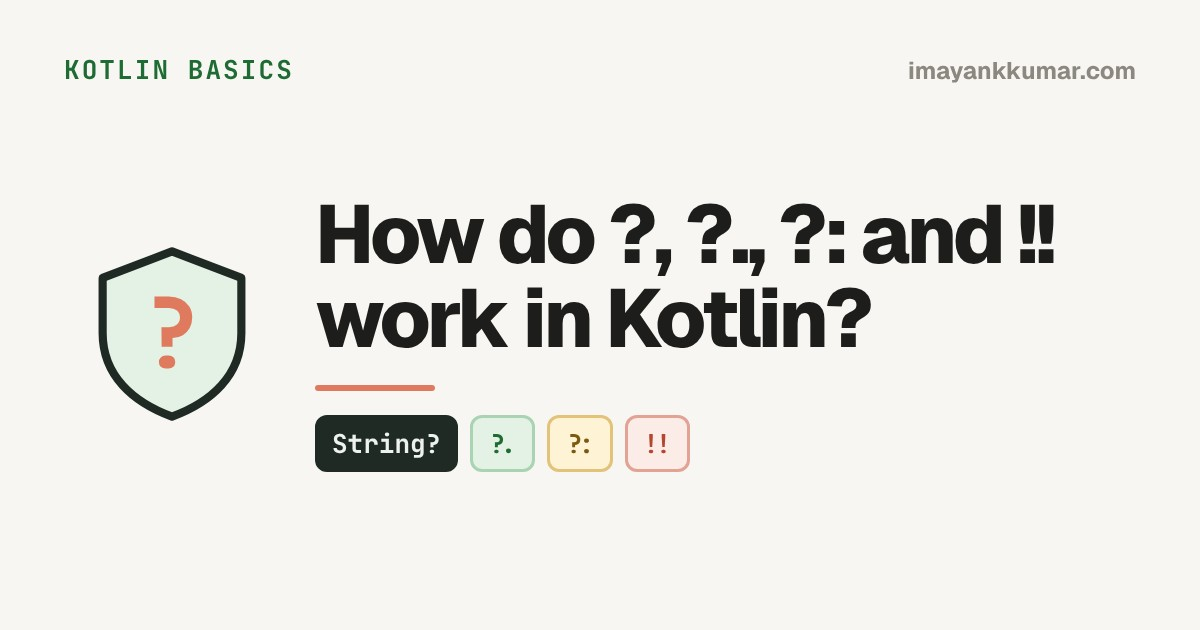
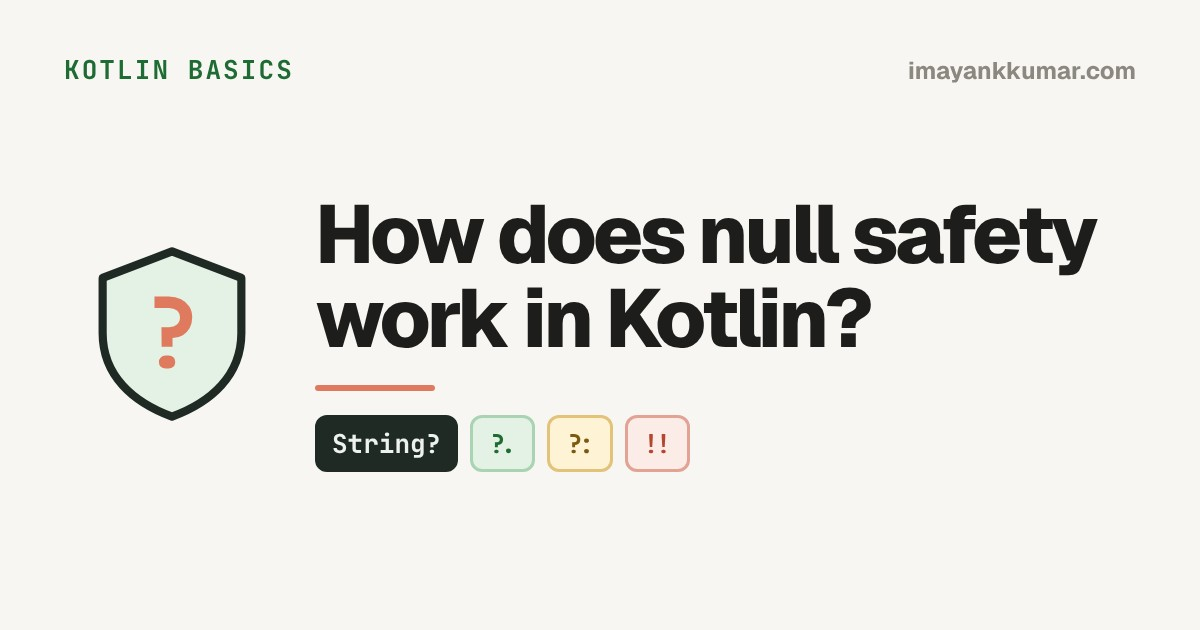
Refresh older posts: question titles, shorter sentences, internal links (#51)
* Publish posts on their pubDate with a daily scheduled deploy

* Add post: When should you use a sealed class in Kotlin?

* Sealed class post: shorter sentences, open vs sealed contrast

* Show interview ladder pages only once their roadmap post is live

* Add sealed class interview ladder and link it from the post

* Roadmap: rename sealed topic to Sealed class vs sealed interface

* Kotlin basics posts: question titles, shorter sentences, next-topic links; null safety cover matches title

* Roadmap and AI posts: shorter sentences and links to the Kotlin posts

Changed region(s): [[0.4933, 0.3016, 0.925, 0.4524]]

diff --git a/src/content/blog/android-developer-roadmap-2027.md b/src/content/blog/android-developer-roadmap-2027.md
@@ -21,13 +21,13 @@ If you are an Android developer right now, you are probably asking three questio
 2. **Does any of it still matter, now that AI writes code?**
 3. **What will interviews actually ask me?**
 
-The last year did not make this easier. In May 2026, Google said [Android UI is now Compose-first](https://android-developers.googleblog.com/2026/05/android-ui-development-is-compose-first.html) and moved the View components that Compose replaces into maintenance mode: critical bug fixes only, no new features, but no plan to remove them. The same day, [Android CLI 1.0](https://android-developers.googleblog.com/2026/05/android-cli-stable-1-0-agent-development.html) went stable so AI agents can build and run Android apps. And Google was reported to be [piloting coding interviews where candidates use Gemini](https://careers.northeastern.edu/blog/2026/05/13/googles-ai-assisted-coding-interview-2026-guide/).
+The last year did not make this easier. In May 2026, Google said [Android UI is now Compose-first](https://android-developers.googleblog.com/2026/05/android-ui-development-is-compose-first.html) It also moved the View components that Compose replaces into maintenance mode. That means critical bug fixes only and no new features, but no plan to remove them. The same day, [Android CLI 1.0](https://android-developers.googleblog.com/2026/05/android-cli-stable-1-0-agent-development.html) went stable so AI agents can build and run Android apps. And Google was reported to be [piloting coding interviews where candidates use Gemini](https://careers.northeastern.edu/blog/2026/05/13/googles-ai-assisted-coding-interview-2026-guide/).
 
-This post answers all three questions. It is a complete roadmap for 2027: what to learn, in what order, how deep to go, what interviewers ask at each stage, and where AI fits.
+This post answers all three questions. It is a complete roadmap for 2027. It covers what to learn, in what order, and how deep to go. It also covers what interviewers ask at each stage, and where AI fits.
 
 **Short answer:** Learn Kotlin and the Android platform first, then coroutines, Compose and architecture, then data, testing, production and system design. Use AI at every stage, but only as fast as you can check what it gives you. Interviews test the same things, plus coding problems and design.
 
-I built this from the official [Android Developers](https://developer.android.com/) and [Kotlin](https://kotlinlang.org/docs/) documentation, recent interview write-ups that developers posted publicly, and what I have seen in production Android work. It is my own roadmap, not one published by Google or JetBrains.
+I built this from the official [Android Developers](https://developer.android.com/) and [Kotlin](https://kotlinlang.org/docs/) documentation. I also used recent interview write-ups that developers posted publicly, and what I have seen in production Android work. It is my own roadmap, not one published by Google or JetBrains.
 
 **Contents**
 
@@ -63,7 +63,7 @@ Before the topic lists, five rules. They matter more than any single library.
 1. **Fundamentals before tools.** Libraries change every year. Lifecycle, state, threading and data flow have not changed much in a decade. Learn the things that will still be true in 2030.
 2. **One project, not ten tutorials.** Build one app and improve it at every stage. You learn more from fixing your own design than from finishing someone else's.
 3. **Use AI, but check it.** Let AI write, explain and suggest. Then prove it right with a test, a profiler or the docs. If you can't check it, you are not ready to ship it.
-4. **Go deep in one area.** Be solid across all nine stages, then pick one to become known for: performance, architecture, testing, AI features or Kotlin Multiplatform (KMP). Depth is what makes a senior engineer.
+4. **Go deep in one area.** Be solid across all nine stages. Then pick one to become known for: performance, architecture, testing, AI features or Kotlin Multiplatform (KMP). Depth is what makes a senior engineer.
 5. **Show your work.** A GitHub repo, a short write-up or a talk proves more than a certificate. It also gives you real stories for interviews.
 
 ## The roadmap at a glance
@@ -97,7 +97,7 @@ If you already work as an Android developer, do not start at stage 1 by default.
 
 ## The nine stages
 
-Every stage has the same parts: why it matters, what you must know, what to learn when you want to go deeper, where to start, the interview questions it prepares you for, and one exercise to test yourself.
+Every stage has the same parts. You get why it matters, what you must know, and what to learn when you want to go deeper. Then where to start, the interview questions it prepares you for, and one exercise to test yourself.
 
 ### Stage 1: Kotlin and DSA basics
 
@@ -128,6 +128,8 @@ Kotlin is the language of Android. Knowing the syntax is easy. Knowing what the 
 
 **Where to start:** the [Kotlin docs](https://kotlinlang.org/docs/), then [what's new in Kotlin 2.4](https://kotlinlang.org/docs/whatsnew24.html) to see where the language is going.
 
+**My posts for this stage so far:** [null safety](/blog/kotlin-null-safety/), [Any, Unit and Nothing](/blog/kotlin-any-unit-nothing/), [data classes](/blog/kotlin-data-class/) and [sealed classes](/blog/kotlin-sealed-class/). The [roadmap page](/roadmap/) lists every topic as it comes out.
+
 **Interview questions**
 
 - `lateinit` vs `by lazy`: when would you use each?
@@ -136,11 +138,11 @@ Kotlin is the language of Android. Knowing the syntax is easy. Knowing what the 
 - (Senior) What does `inline` change at the call site, and why does `reified` need it?
 - (Senior) How does `by lazy` handle threads by default, and when would you change that?
 
-**Try this:** Write a sealed `UiState` with four states and a `when` that handles them. Add a fifth state. Notice what the compiler does, and explain why that is the point of sealed types.
+**Try this:** Write a sealed `UiState` with four states and a `when` that handles them. Add a fifth state. Notice what the compiler does, and explain why that is the point of sealed types. ([The sealed class post](/blog/kotlin-sealed-class/) walks through it.)
 
 ### Stage 2: The Android platform
 
-This is the stage people skip, and it is where many production bugs live. The platform also keeps changing under you. Apps that target Android 16 [can no longer opt out of edge-to-edge](https://developer.android.com/about/versions/16/behavior-changes-16), get predictive back by default, and have orientation and resize limits ignored on large screens. Apps that target Android 17 [lose the large-screen opt-out](https://developer.android.com/about/versions/17/behavior-changes-17) and need a new permission for local network access.
+This is the stage people skip, and it is where many production bugs live. The platform also keeps changing under you. Apps that target Android 16 [can no longer opt out of edge-to-edge](https://developer.android.com/about/versions/16/behavior-changes-16), and get predictive back by default. On large screens, their orientation and resize limits are ignored. Apps that target Android 17 [lose the large-screen opt-out](https://developer.android.com/about/versions/17/behavior-changes-17) and need a new permission for local network access.
 
 **Must know**
 
@@ -581,7 +583,7 @@ What is asked depends on the company and the level. Do not count how many questi
 
 A roadmap that makes everything look equally important does not help anyone. These are worth learning when your product, team or next role needs them.
 
-- **Kotlin Multiplatform and Compose Multiplatform.** JetBrains made [Compose Multiplatform for iOS stable](https://blog.jetbrains.com/kotlin/2025/05/compose-multiplatform-1-8-0-released) in May 2025, and KMP is a main focus on the [Kotlin roadmap](https://kotlinlang.org/docs/roadmap.html). It is a strong skill, but it builds on stages 1 to 7. Learn it after them, or when your team shares code.
+- **Kotlin Multiplatform and Compose Multiplatform.** JetBrains made [Compose Multiplatform for iOS stable](https://blog.jetbrains.com/kotlin/2025/05/compose-multiplatform-1-8-0-released) in May 2025. KMP is also a main focus on the [Kotlin roadmap](https://kotlinlang.org/docs/roadmap.html). It is a strong skill, but it builds on stages 1 to 7. Learn it after them, or when your team shares code.
 - **XML Views, Fragments and RxJava.** Many production apps still use them, and interviews still ask about Fragment lifecycles. Learn enough to maintain and migrate them. For new code, Compose, coroutines and Flow come first.
 - **Specialized APIs.** Bluetooth, camera, media, location, health, Wear OS, TV, Auto and XR. Learn them deeply when a product needs them. Everyone should still know the privacy and permission basics.
 
@@ -591,7 +593,7 @@ The rule is simple: fundamentals first, then go deep where the product takes you
 
 - **New to Android (0 to 1 year).** Start at stage 1 and go in order. Google's [Android Basics with Compose](https://developer.android.com/courses/android-basics-compose/course) course covers the first stages well. Start coding problems early. Do not jump to AI features or KMP yet.
 - **Working Android developer (1 to 4 years).** Test yourself with the "done when" column. Stages 2, 3 and 7 are the easiest to skip while still shipping features: process death, cancellation and tests that catch real bugs. Check those first, then add system design.
-- **Senior (5+ years).** Stages 8 and 9 are your job now. Add both AI tracks, and make sure you can still answer the stage 2 and 3 interview questions without notes, because you are the one reviewing everyone's AI-written code.
+- **Senior (5+ years).** Stages 8 and 9 are your job now. Add both AI tracks. Make sure you can still answer the stage 2 and 3 interview questions without notes, because you are the one reviewing everyone's AI-written code.
 
 ## Should you build many small apps or one real project?
 

diff --git a/src/content/blog/kotlin-data-class.md b/src/content/blog/kotlin-data-class.md
@@ -1,6 +1,5 @@
 ---
-title: "Kotlin Data Class vs Regular Class Explained Simply"
-seoTitle: "Kotlin Data Class vs Class: equals, copy, componentN and Bytecode"
+title: "When Should a Kotlin Class Be a Data Class?"
 description: "What the data keyword really adds to a Kotlin class, the rules it comes with, why copy() is shallow, and what the compiler writes for you in bytecode."
 pubDate: 2026-11-14
 tags: ["kotlin", "android", "data-class", "basics"]
@@ -14,7 +13,7 @@ roadmap:
   topic: data-classes
 ---
 
-> **In short:** a data class is a normal class where the compiler writes five things for you: `equals()`, `hashCode()`, `toString()`, `copy()` and `component1()`, `component2()` and so on. It uses only the properties in the primary constructor, and `copy()` copies values, not the objects inside them.
+> **In short:** a data class is a normal class where the compiler writes five things for you. They are `equals()`, `hashCode()`, `toString()`, `copy()` and `component1()`, `component2()` and so on. It uses only the properties in the primary constructor, and `copy()` copies values, not the objects inside them.
 
 You add an item to the cart, the ViewModel updates its `StateFlow`, and the screen does not change. No crash, nothing in Logcat. The state is a data class and the update uses `copy()`. The bug is in how `copy()` and `equals()` work together.
 
@@ -70,7 +69,7 @@ A regular class gets `equals()` from [`Any`](/blog/kotlin-any-unit-nothing/), wh
 3. A data class can't be `abstract`, `open`, `sealed` or `inner`.
 4. You can't write your own `copy()` or `componentN()` with the same parameters the compiler would generate. You can write your own `equals()`, `hashCode()` or `toString()`, and then the compiler uses yours.
 
-Rule 3 means nobody can extend a data class. It can still implement interfaces, which is why `data class Ready(...) : UiState` is so common in Android code. Break a rule and you get a compile error, like "Modifier 'open' is incompatible with 'data'".
+Rule 3 means nobody can extend a data class. It can still implement interfaces, which is why `data class Ready(...) : UiState` is so common in Android code. The [sealed class post](/blog/kotlin-sealed-class/) shows how that `UiState` is built. Break a rule and you get a compile error, like "Modifier 'open' is incompatible with 'data'".
 
 ## Which properties count in equals()?
 
@@ -150,7 +149,7 @@ public final class CartItem {
 }
 ```
 
-The class is `final`: that is rule 3 in bytecode. `copy$default` handles default arguments: an `int` mask marks which ones you passed, and the rest come from the old object. And `hashCode()` is the classic `result * 31 + next` over the three fields, the same code you would write by hand in Java. To see it yourself in Android Studio: *Tools > Kotlin > Show Kotlin Bytecode*, then *Decompile*.
+The class is `final`: that is rule 3 in bytecode. `copy$default` handles default arguments: an `int` mask marks which ones you passed, and the rest come from the old object. And `hashCode()` is the classic `result * 31 + next` over the three fields. It is the same code you would write by hand in Java. To see it yourself in Android Studio: *Tools > Kotlin > Show Kotlin Bytecode*, then *Decompile*.
 
 ## Data class vs regular class: quick comparison
 
@@ -180,6 +179,6 @@ The `data` keyword is a shortcut, not a different kind of class. It writes five 
 
 The practical habit: build state classes from `val`s and read-only types like `List`, and make changes with `copy()`.
 
-If you want to test yourself, try the [data class interview questions](/interview/kotlin-data-class/). This post is the third topic in Stage 1 of my [Android roadmap](/roadmap/).
+If you want to test yourself, try the [data class interview questions](/interview/kotlin-data-class/). This post is the third topic in Stage 1 of my [Android roadmap](/roadmap/). Next: [When should you use a sealed class in Kotlin?](/blog/kotlin-sealed-class/)
 
 Have you ever had a `StateFlow` that didn't update even though the code called `copy()`?

diff --git a/src/content/blog/ai-can-write-my-kotlin.md b/src/content/blog/ai-can-write-my-kotlin.md
@@ -16,13 +16,13 @@ coverAlt: "Title card: AI can write my Kotlin. Who debugs it at 2 AM? Tags: test
 
 It's 2:07 AM, and Crashlytics has opinions. The crash is in a ViewModel that `git blame` says you wrote. You didn't. An agent did, and its pull request said "all tests pass." They do. The agent updated the expected values to match its new behaviour.
 
-That's a composite, not a confession. But it points at a real shift in Android work. This post covers what AI tools can do on Android today, why "the tests pass" is not the same as "it works" on a phone, and what to get better at.
+That's a composite, not a confession. But it points at a real shift in Android work. This post covers what AI tools can do on Android today. It also covers why "the tests pass" is not the same as "it works" on a phone, and what to get better at.
 
 Short answer: AI can now write and fix Android code, but proving it works on a real device is still your job.
 
 ## What can AI tools do on Android today?
 
-Quite a lot. Android Studio's [May 2026 release](https://android-developers.googleblog.com/2026/05/whats-new-android-developer-tools.html) includes an agent that plans multi-step work and fixes its own build errors, "Fix with AI" for crashes in App Quality Insights, and an option to hand LeakCanary traces to an agent. Google also runs [Android Bench](https://android-developers.googleblog.com/2026/03/elevating-ai-assisted-androi.html), which gives models real issues from public Android repos and checks each fix with tests. At its March 2026 launch, models solved between 16% and 72% of tasks.
+Quite a lot. Android Studio's [May 2026 release](https://android-developers.googleblog.com/2026/05/whats-new-android-developer-tools.html) includes an agent that plans multi-step work and fixes its own build errors. It also adds "Fix with AI" for crashes in App Quality Insights, and an option to hand LeakCanary traces to an agent. Google also runs [Android Bench](https://android-developers.googleblog.com/2026/03/elevating-ai-assisted-androi.html), which gives models real issues from public Android repos and checks each fix with tests. At its March 2026 launch, models solved between 16% and 72% of tasks.
 
 So writing Android code is no longer the slow part. Checking it is.
 
@@ -66,7 +66,7 @@ Android Bench counts a task as solved when the tests pass. That's fair for a ben
 
 ## Doesn't AI debug too?
 
-It does, and it's improving. At 2 AM, an agent can give you three possible explanations for a crash in seconds. The hard part is picking the true one: what the evidence supports, and whether the fix treats the cause or just hides it behind a `?.let`. That takes a mental model of the system.
+It does, and it's improving. At 2 AM, an agent can give you three possible explanations for a crash in seconds. The hard part is picking the true one. What does the evidence support? Does the fix treat the cause, or just hide it behind a `?.let`? That takes a mental model of the system.
 
 Two things are less certain. Simple apps may end up mostly built by agents, so deep Android skill will matter most where failure is expensive. And if junior engineers stop writing the boring code, it's not clear how they'll build that mental model. I don't have an answer to that yet.
 
@@ -99,5 +99,7 @@ And write some code by hand on purpose, in the parts you want to understand deep
 ## So, who debugs at 2 AM?
 
 You and an agent, together. The agent will produce explanations faster. Your job is knowing which one is true and owning the release.
+
+If you want a full learning path for these skills, start with my [Android Developer Roadmap 2027](/blog/android-developer-roadmap-2027/).
 
 What's the most convincing "almost right" code an AI tool has given you on Android?

diff --git a/src/content/blog/kotlin-any-unit-nothing.md b/src/content/blog/kotlin-any-unit-nothing.md
@@ -1,5 +1,5 @@
 ---
-title: "Kotlin Any, Unit and Nothing Explained Simply"
+title: "What Do Any, Unit and Nothing Mean in Kotlin?"
 description: "What Any, Unit and Nothing mean in Kotlin, how they differ from Java's Object and void, and why Android code is full of () -> Unit and UiState<Nothing>."
 pubDate: 2026-11-09
 tags: ["kotlin", "android", "type-system", "basics"]
@@ -25,7 +25,7 @@ Think of Kotlin's types as a ladder.
 
 - At the top is `Any?`. Every value fits here, even `null`.
 - Just below is `Any`. Every value except `null` fits here.
-- In the middle are the types you use every day: built-in ones like `String` and `Int`, your own classes like `Order` (from the food-order app in this series), and also `Unit`.
+- In the middle are the types you use every day. That means built-in ones like `String` and `Int`, your own classes like `Order` (from the food-order app in this series), and also `Unit`.
 - At the bottom is `Nothing`. No value fits here at all.
 
 A type high on the ladder accepts more values but tells you less about them. A type low on the ladder tells you more. `Nothing` is the extreme case: it tells the compiler "you will never get a value from here".
@@ -54,7 +54,7 @@ Here each value is `Any?`, because the note can be missing. To use a value as it
 
 On the JVM, Kotlin [maps Java's `Object` to `Any`](https://kotlinlang.org/docs/java-interop.html#mapped-types). They are not exactly the same, though. `Any` only has those three functions, so `wait()` and `notify()` are not available on it.
 
-`Any` is useful at the edges of your app: logging, analytics, a `Bundle`. Inside your own code, it throws away type information. If a function takes `Any` and then checks five types with `is`, a sealed type or a generic is usually a better fit.
+`Any` is useful at the edges of your app: logging, analytics, a `Bundle`. Inside your own code, it throws away type information. If a function takes `Any` and then checks five types with `is`, a [sealed type](/blog/kotlin-sealed-class/) or a generic is usually a better fit.
 
 ## What is Unit, and how is it different from void?
 
@@ -156,10 +156,10 @@ A `Unit` function finishes and comes back, just without a useful result. A `Noth
 
 ## What should you remember?
 
-`Any` is the top of the ladder: it accepts everything and tells you little. `Unit` is a real value that means "done". `Nothing` is the bottom: it tells the compiler a path never comes back, and the compiler uses that to make your other types more exact.
+`Any` is the top of the ladder: it accepts everything and tells you little. `Unit` is a real value that means "done". `Nothing` is the bottom: it tells the compiler a path never comes back. The compiler uses that to make your other types more exact.
 
 The practical habit: when you write a helper that always throws, give it `: Nothing`. Your smart casts will start working, and a few `!!` will go away.
 
-If you want to test yourself, try the [Any, Unit and Nothing interview questions](/interview/kotlin-any-unit-nothing/). This post is the second topic in Stage 1 of my [Android roadmap](/roadmap/).
+If you want to test yourself, try the [Any, Unit and Nothing interview questions](/interview/kotlin-any-unit-nothing/). This post is the second topic in Stage 1 of my [Android roadmap](/roadmap/). Next: [When should a Kotlin class be a data class?](/blog/kotlin-data-class/)
 
 Have you seen `UiState<Nothing>` in your codebase, or does your team write a separate state class for every screen?

diff --git a/src/content/blog/kotlin-null-safety.md b/src/content/blog/kotlin-null-safety.md
@@ -1,6 +1,5 @@
 ---
-title: "Kotlin Null Safety Explained Simply: ?, ?., ?:, !! and Platform Types"
-seoTitle: "Kotlin Null Safety Explained: ?., ?:, !! and Platform Types"
+title: "How Does Null Safety Work in Kotlin?"
 description: "How Kotlin stops NullPointerException before your app runs: nullable types, safe calls, the Elvis operator, why !! is risky, and where Java can still crash you."
 pubDate: 2026-11-04
 linkedinUrl: "https://www.linkedin.com/feed/update/urn:li:activity:7523693169323163648/"
@@ -10,9 +9,9 @@ featuredIn:
     url: "https://androidweekly.net/issues/issue-752"
 tags: ["kotlin", "android", "null-safety", "basics"]
 ogImage: "/og/kotlin-null-safety.jpg"
-ogImageAlt: "Title card: How do ?, ?., ?: and !! work in Kotlin? Tags: String?, ?., ?:, !!."
+ogImageAlt: "Title card: How does null safety work in Kotlin? Tags: String?, ?., ?:, !!."
 cover: "../../assets/blog/covers/kotlin-null-safety.png"
-coverAlt: "Title card: How do ?, ?., ?: and !! work in Kotlin? Tags: String?, ?., ?:, !!."
+coverAlt: "Title card: How does null safety work in Kotlin? Tags: String?, ?., ?:, !!."
 roadmap:
   topic: null-safety
 ---
@@ -72,7 +71,7 @@ There are four everyday tools.
 
 ## Why is `!!` risky?
 
-`!!` is the not-null assertion operator. It tells the compiler: "Trust me, this is not null." If you are wrong, you get the same NPE that Kotlin was trying to prevent.
+`!!` is the not-null assertion operator. It tells the compiler: "Trust me, this is not null." If you are wrong, you get the same NPE that Kotlin tried to prevent.
 
 When the compiler shows a red line, adding `!!` is the fastest way to make it go away. That is true whether you, a teammate or an AI tool writes the fix. Here is what that looks like:
 
@@ -93,7 +92,7 @@ fun orderTitle(orderId: String): String {
 
 The first version hides a decision. Nobody said what should happen when the order is missing. The second version answers that question with `?:`, and after that line the compiler knows `order` is not null.
 
-In code review, treat every `!!` as a question: "Why can't this be null here?" If there is a good reason, show it in code. For example: `requireNotNull(order) { "Order must be loaded first" }`.
+In code review, treat every `!!` as a question. Ask "Why can't this be null here?" If there is a good reason, show it in code. For example: `requireNotNull(order) { "Order must be loaded first" }`.
 
 ## Where can a NullPointerException still happen in Kotlin?
 
@@ -137,6 +136,6 @@ Kotlin does not remove null. It makes you say, in the type, where null is allowe
 
 In everyday Kotlin code, watch two doors: `!!` and Java. Keep both small and easy to see.
 
-If you want to test yourself, try the [null safety interview questions](/interview/kotlin-null-safety/). This post is the first topic in Stage 1 of my [Android roadmap](/roadmap/).
+If you want to test yourself, try the [null safety interview questions](/interview/kotlin-null-safety/). This post is the first topic in Stage 1 of my [Android roadmap](/roadmap/). Next: [What do Any, Unit and Nothing mean in Kotlin?](/blog/kotlin-any-unit-nothing/)
 
 Where do most `!!` operators come from in your codebase: old Java code, framework callbacks, or habit?
